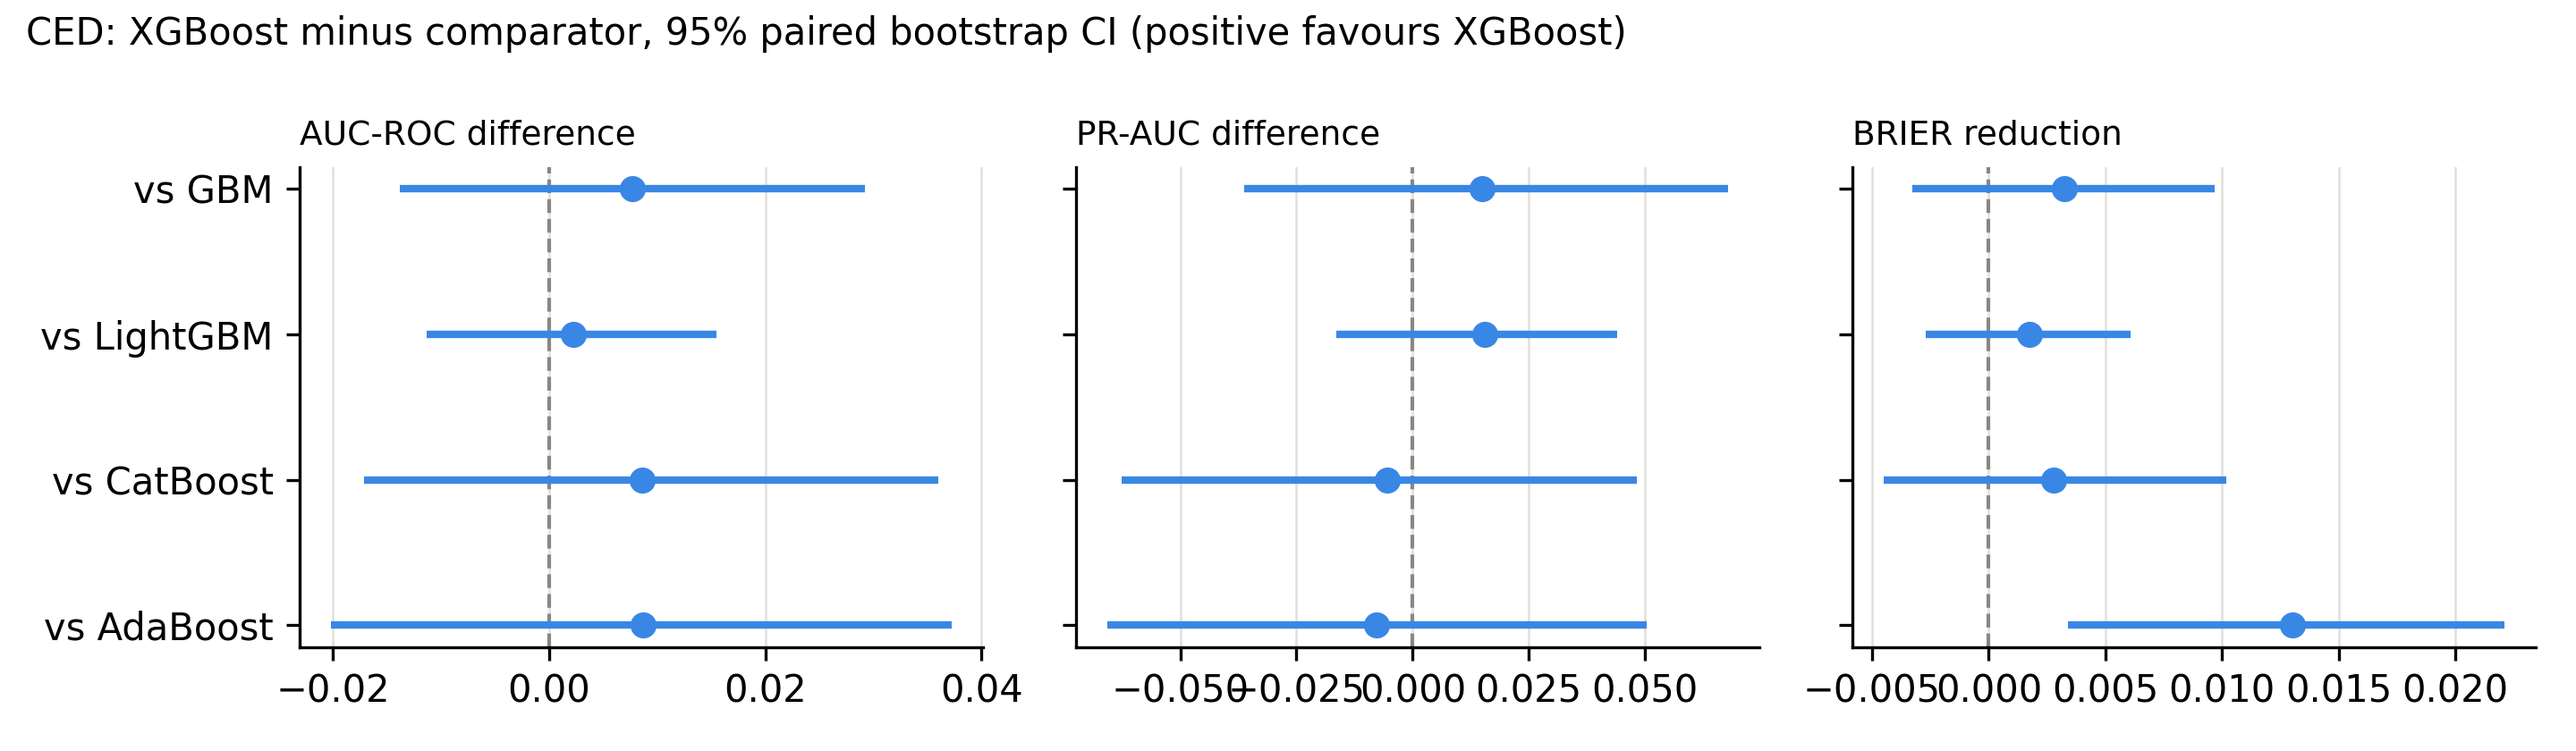
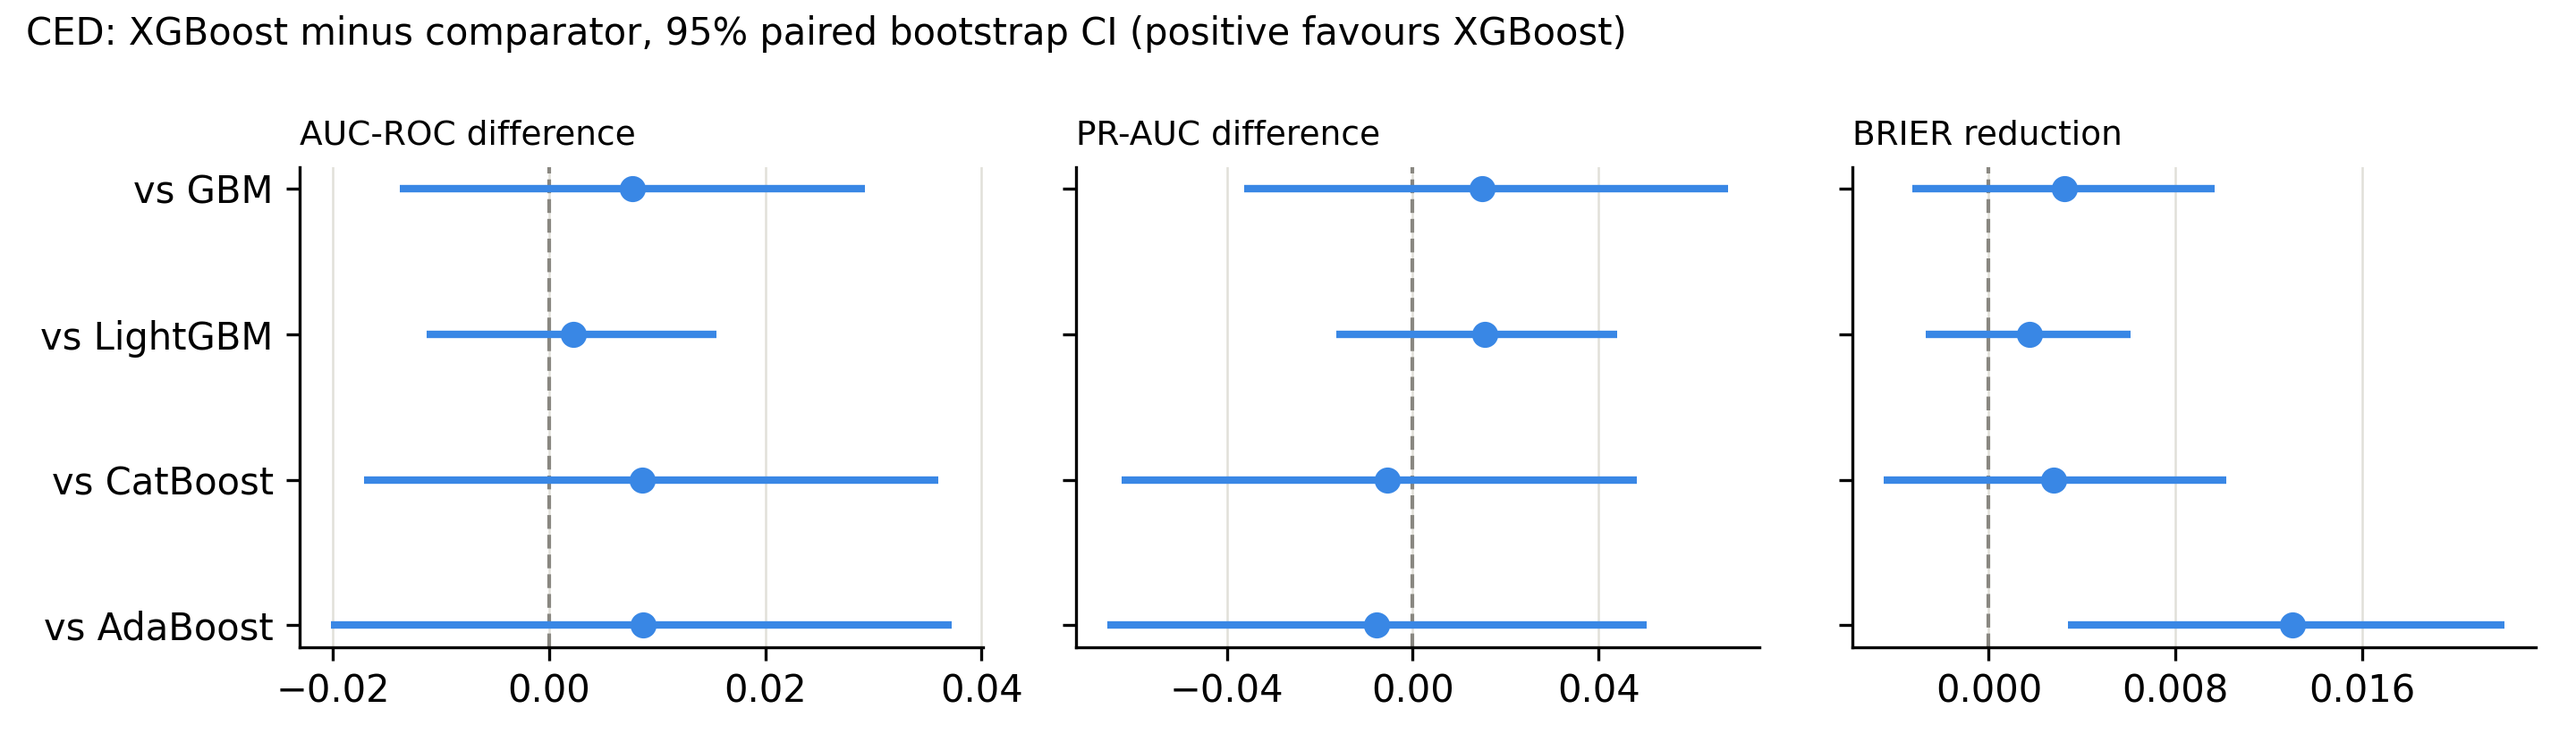
Figures: readable x ticks on forest plots, no duplicate outlier markers on box plots

Changed region(s): [[0.4375, 0.8976, 0.6562, 0.9595], [0.7812, 0.8976, 0.9688, 0.9595], [0.6875, 0.8976, 0.75, 0.9595]]

diff --git a/experiments/12_boosting_comparison.py b/experiments/12_boosting_comparison.py
@@ -27,6 +27,7 @@ import matplotlib
 
 matplotlib.use("Agg")
 import matplotlib.pyplot as plt  # noqa: E402
+from matplotlib.ticker import MaxNLocator  # noqa: E402
 import numpy as np  # noqa: E402
 import pandas as pd  # noqa: E402
 from _common import ROOT, start  # noqa: E402
@@ -206,6 +207,7 @@ for target, t in TARGETS.items():
         ax.errorbar(d["point"], y, xerr=[d["point"] - d["ci_low"], d["ci_high"] - d["point"]], fmt="o", color="#3987e5",
                     ecolor="#3987e5", ms=6, lw=2, capsize=0)
         ax.set_yticks(y, [f"vs {LABELS[v]}" for v in d["versus"]])
+        ax.xaxis.set_major_locator(MaxNLocator(nbins=4))
         word = "reduction" if quantity(metric) == "reduction" else "difference"
         ax.set_title(f"{metric.upper().replace('_', '-')} {word}", loc="left", fontsize=9)
         style(ax)
@@ -219,7 +221,7 @@ for target, t in TARGETS.items():
     fig, axes = plt.subplots(1, len(t["box"]), figsize=(4.2 * len(t["box"]), 3.0))
     for ax, metric in zip(axes, t["box"], strict=True):
         per_rep = [[rb.points[(m, r)][metric] for r in rb.repeats] for m in CANDS]
-        ax.boxplot(per_rep, widths=0.5, medianprops={"color": "#3987e5", "lw": 2},
+        ax.boxplot(per_rep, widths=0.5, showfliers=False, medianprops={"color": "#3987e5", "lw": 2},
                    boxprops={"color": "#52514e"}, whiskerprops={"color": "#52514e"}, capprops={"color": "#52514e"})
         for i, vals in enumerate(per_rep, start=1):
             ax.scatter(np.full(len(vals), i), vals, s=14, color="#52514e", zorder=3)
